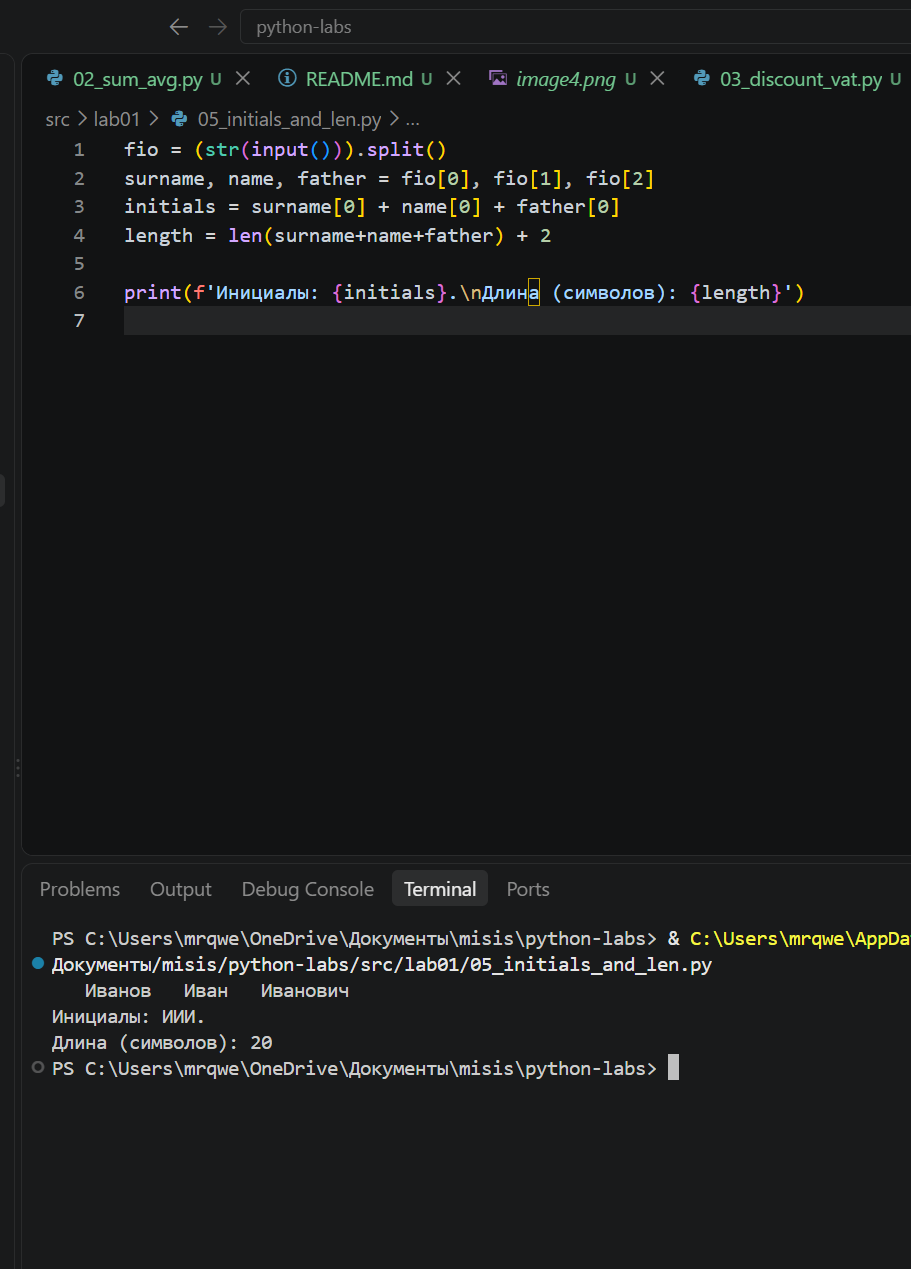
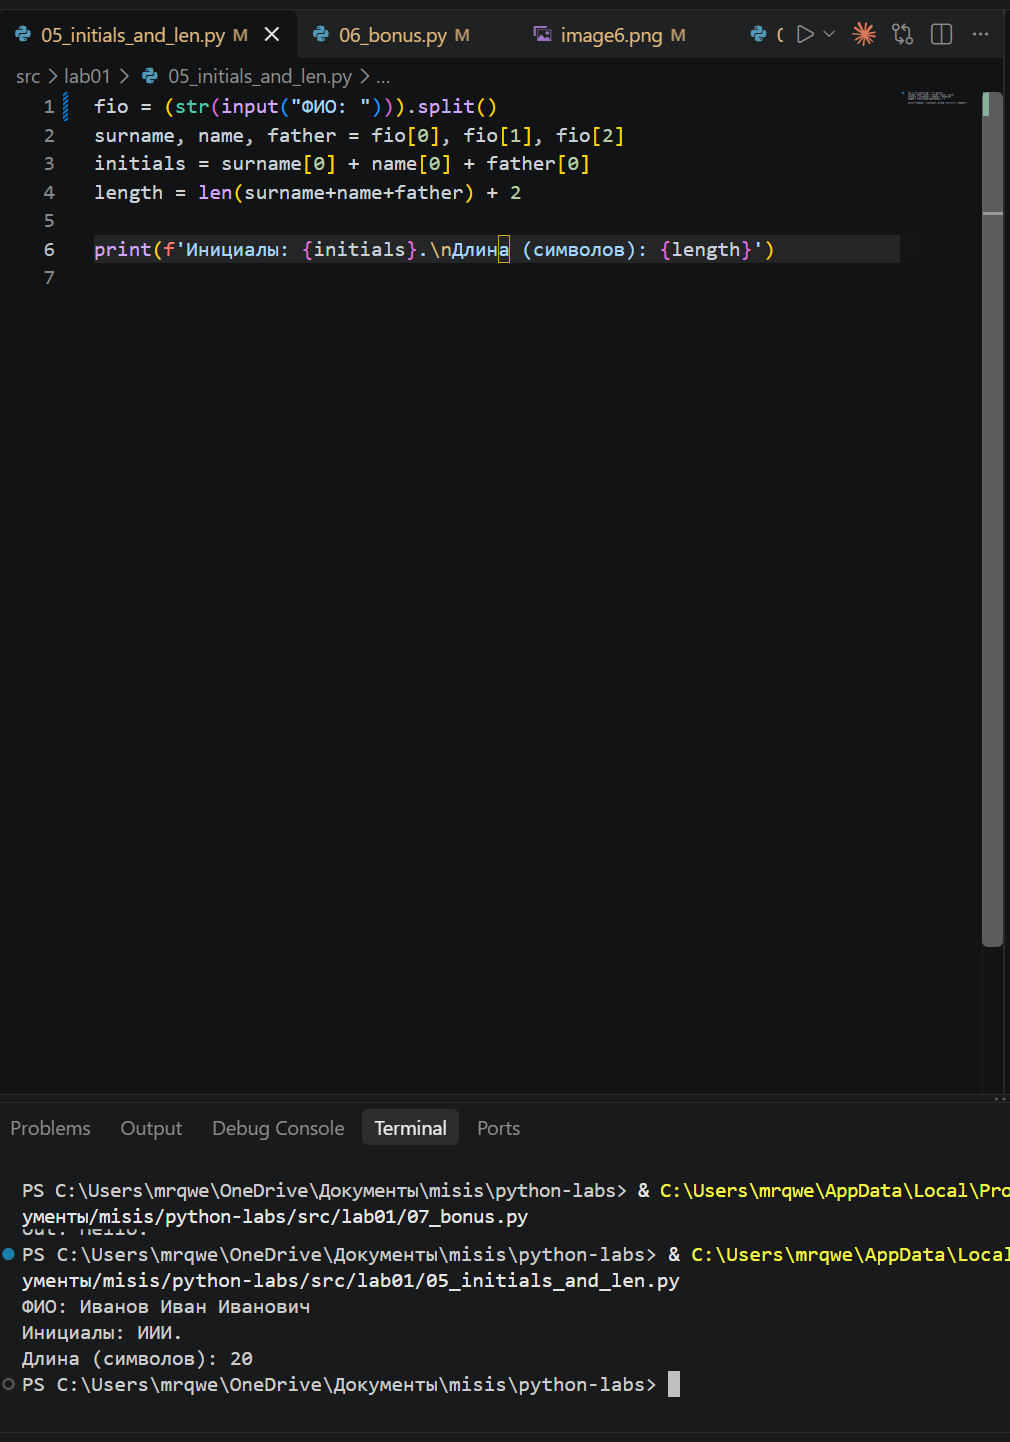
fix

diff --git a/src/lab01/06_bonus.py b/src/lab01/06_bonus.py
@@ -1,10 +1,11 @@
-num = int(input())
+num = int(input("in_1: "))
 
 ochn = 0
 neochn = 0
-
+counter = 1
 for _ in range(num):
-    info = str(input()).split()
+    counter += 1
+    info = str(input(f"in_{counter}: ")).split()
     surname, name, age, form = info[0], info[1], info[2], info[3]
 
     if form == "True":
@@ -12,4 +13,4 @@ for _ in range(num):
     elif form == "False":
         neochn += 1
 
-print(ochn, neochn)
+print("out:", ochn, neochn)

diff --git a/src/lab01/07_bonus.py b/src/lab01/07_bonus.py
@@ -1,4 +1,4 @@
-inp = str(input())
+inp = str(input("in: "))
 out = ""
 step = 0
 start = 0
@@ -20,5 +20,5 @@ for i in range(start + step, len(inp), step):
     char = inp[i]
     out += char
 
-print(out)
+print("out:", out)
     

diff --git a/src/lab01/05_initials_and_len.py b/src/lab01/05_initials_and_len.py
@@ -1,4 +1,4 @@
-fio = (str(input())).split()
+fio = (str(input("ФИО: "))).split()
 surname, name, father = fio[0], fio[1], fio[2]
 initials = surname[0] + name[0] + father[0]
 length = len(surname+name+father) + 2
